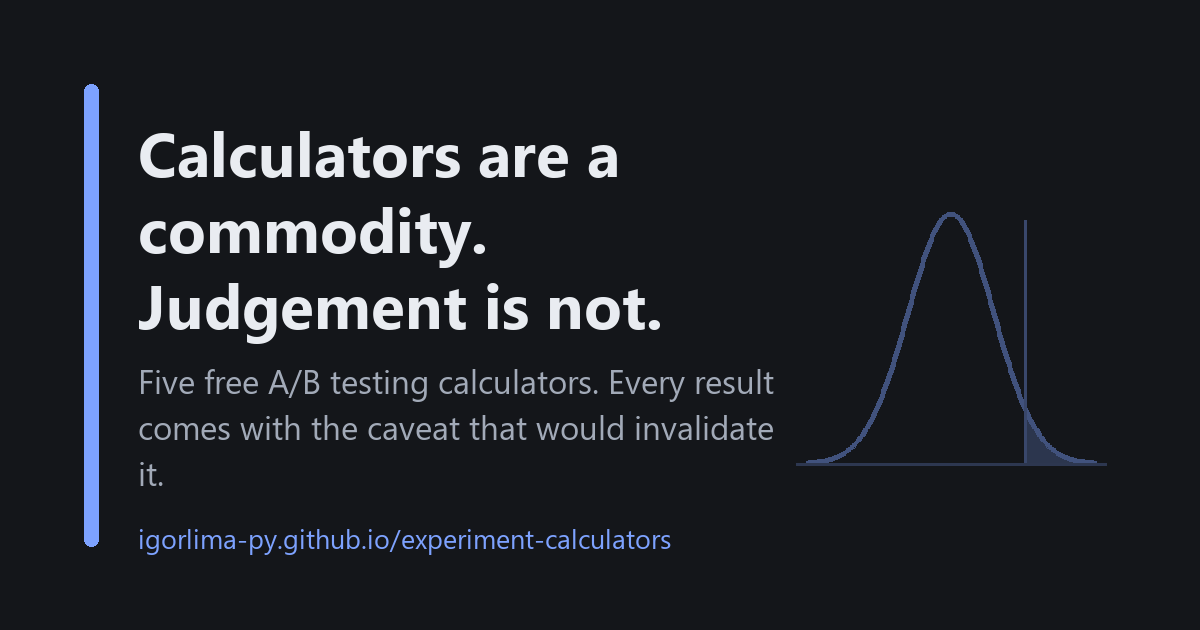
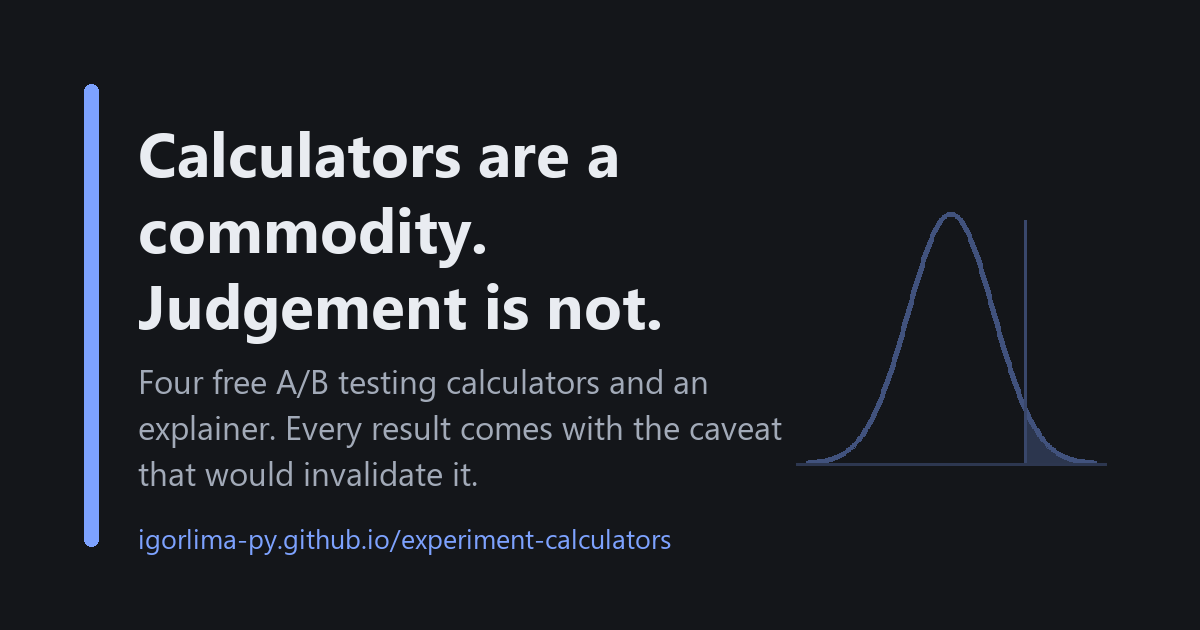
copy: four calculators and an explainer; only a few tools warn you, not none
The home page, README, 404 and home link-preview image said five
calculators, but the CUPED page is an explainer. The home page said none of
the free calculators tell you what would make the number a lie; ABTestGuide
flags sample ratio mismatch, so that was false. validation/README.md
described the planning-session seed scripts; it now documents the
reference/check pairs and the two new checks.

Changed region(s): [[0.1233, 0.6635, 0.6475, 0.7841], [0.1233, 0.573, 0.6475, 0.6333]]

diff --git a/index.html b/index.html
@@ -4,19 +4,19 @@
 <meta charset="utf-8">
 <meta name="viewport" content="width=device-width, initial-scale=1">
 <title>Experimentation calculators</title>
-<meta name="description" content="Five free calculators for people who run A/B tests, each result paired with the caveat that would invalidate it. Every formula checked against a reference implementation, with the comparison published.">
+<meta name="description" content="Four free calculators and an interactive explainer for people who run A/B tests, each result paired with the caveat that would invalidate it. Every formula checked against a reference implementation, with the comparison published.">
 <link rel="canonical" href="https://igorlima-py.github.io/experiment-calculators/">
 <link rel="icon" href="./assets/favicon.svg" type="image/svg+xml">
 <meta property="og:type" content="website">
 <meta property="og:url" content="https://igorlima-py.github.io/experiment-calculators/">
 <meta property="og:title" content="Experimentation calculators">
-<meta property="og:description" content="Five free calculators for people who run A/B tests, each result paired with the caveat that would invalidate it. Every formula checked against a reference implementation, with the comparison published.">
+<meta property="og:description" content="Four free calculators and an interactive explainer for people who run A/B tests, each result paired with the caveat that would invalidate it. Every formula checked against a reference implementation, with the comparison published.">
 <meta property="og:image" content="https://igorlima-py.github.io/experiment-calculators/assets/og/home.png">
 <meta property="og:image:width" content="1200">
 <meta property="og:image:height" content="630">
 <meta name="twitter:card" content="summary_large_image">
 <meta name="twitter:title" content="Experimentation calculators">
-<meta name="twitter:description" content="Five free calculators for people who run A/B tests, each result paired with the caveat that would invalidate it. Every formula checked against a reference implementation, with the comparison published.">
+<meta name="twitter:description" content="Four free calculators and an interactive explainer for people who run A/B tests, each result paired with the caveat that would invalidate it. Every formula checked against a reference implementation, with the comparison published.">
 <meta name="twitter:image" content="https://igorlima-py.github.io/experiment-calculators/assets/og/home.png">
 <link rel="stylesheet" href="assets/style.css">
 </head>
@@ -31,8 +31,10 @@
   <h1>Calculators are a commodity. Judgement is not.</h1>
 
   <p class="tool-sub">There are fifty free A/B test calculators. Almost none of
-  them tell you what the number means, and none of them tell you what would make
-  it a lie. These do both.</p>
+  them tell you what the number means, and only a few warn you when it might be
+  a lie: <a href="https://abtestguide.com/calc/">ABTestGuide</a>, for one, flags
+  a traffic split that did not come out as planned. These do both, for every
+  result.</p>
 
   <p>Every result on this site comes with one plain sentence on what it means
   and, more importantly, what would invalidate it. The

diff --git a/404.html b/404.html
@@ -4,7 +4,7 @@
 <meta charset="utf-8">
 <meta name="viewport" content="width=device-width, initial-scale=1">
 <title>Page not found</title>
-<meta name="description" content="That page does not exist. The five calculators are listed here.">
+<meta name="description" content="That page does not exist. Every page on the site is listed here.">
 <meta name="robots" content="noindex">
 <link rel="icon" href="/experiment-calculators/assets/favicon.svg" type="image/svg+xml">
 <link rel="stylesheet" href="/experiment-calculators/assets/style.css">

diff --git a/assets/build_og.py b/assets/build_og.py
@@ -69,8 +69,8 @@ FOOTER = "igorlima-py.github.io/experiment-calculators"
 
 PAGES = [
     ("home", "Calculators are a commodity. Judgement is not.",
-     "Five free A/B testing calculators. Every result comes with the caveat "
-     "that would invalidate it."),
+     "Four free A/B testing calculators and an explainer. Every result comes "
+     "with the caveat that would invalidate it."),
     ("sample-size", "A/B test sample size & duration",
      "How many users a test needs, how long that takes at your traffic, and "
      "what peeking early would cost you."),

diff --git a/validation/README.md b/validation/README.md
@@ -1,35 +1,68 @@
 # Validation
 
-Reference-implementation cross-checks for every calculator in this suite.
-**No calculator ships without its comparison table published here.**
+Every formula on the site is cross-checked here against a reference
+implementation, and no calculator ships without its comparison published in
+[RESULTS.md](RESULTS.md), which the site also serves as
+[a page](index.html).
 
-These scripts were seeded during the planning session (2026-08-26) and already
-reproduce the canonical numbers; they will grow into one script per tool with
-committed markdown output during implementation.
+## How the checks work
 
-## Scripts
+Most of them come in pairs. A Python script computes reference values with
+scipy, statsmodels or numpy and writes them to a JSON file. A Node script then
+loads the site's own JavaScript from `assets/`, runs it on the same inputs,
+and exits with an error if any result falls outside its stated tolerance.
 
-- `verify_tool1.py`: A/B sample size, exact port of Evan Miller's
-  `sample-size-fixed.js` formula vs. statsmodels
-  (`samplesize_proportions_2indep_onetail`, Cohen's h route), the classic
-  pooled-p̄ formula, and Fleiss with continuity correction. Documents *why*
-  the implementations disagree (null-variance convention), not just that they do.
-- `verify_tool3_mvn.py`: Peeking, overall type-I error under k interim looks
-  via the exact multivariate-normal representation (scipy Genz MVN),
-  plus Pocock constants and O'Brien-Fleming bounds by root-finding.
-- `verify_tool3_recursion.py`: Peeking, independent second route,
-  Armitage–McPherson recursion (numerical integration of the sub-density),
-  plus a Monte Carlo check. Agreement of both routes with the published
-  Armitage/Pocock/OBF tables is the acceptance criterion for the JS port.
-
-## Environment
-
-Verified with Python 3.14.3 on Windows:
-
-```
-numpy
-scipy==1.17.1
-statsmodels==0.14.6
+```bash
+python reference_tool1.py && node check_tool1.js
 ```
 
-Run any script directly, e.g. `python verify_tool3_recursion.py`.
+The JSON files are committed, so the Node half runs without the Python stack
+installed. CI regenerates every one of them on each push.
+
+| Pair | What it checks | Against |
+|---|---|---|
+| `reference_core.py` / `check_core.js` | The distribution functions in `stats.js` | scipy |
+| `reference_tool1.py` / `check_tool1.js` | Sample size | statsmodels, and a port of Evan Miller's formula |
+| `reference_tool2.py` / `check_tool2.js` | Minimum detectable effect | statsmodels' sample-size function, inverted numerically, and Cohen's h |
+| `reference_tool3.py` / `check_tool3.js` | The cost of peeking, and the Pocock and O'Brien-Fleming thresholds | A multivariate-normal integration in scipy, the published tables, and a Monte Carlo run |
+| `reference_tool3_spending.py` / `check_tool3_spending.js` | Alpha spending at unevenly spaced looks | scipy, including how much error each boundary really spends |
+| `reference_tool4.py` / `check_tool4.js` | Geo holdout power and detectable lift | statsmodels' `TTestIndPower` and scipy's noncentral t |
+| `reference_tool5.py` / `check_tool5.js` | CUPED and the delta method | numpy on identical datasets, and large Monte Carlo runs |
+
+`reference_tool3.py` takes about seven minutes. The rest finish in seconds.
+
+Two checks have no Python half. `check_judgement.js` runs the sentence under
+each result (`assets/judgement.js`) against a table of cases: the exact text
+each tool shows at its defaults, one case per branch, and the peeking figure
+on the sample size page against the one the peeking checker shows.
+`check_site.js` fails if a tool is missing from any page's nav, the home page,
+the 404, the sitemap, the README or the link-preview generator, if a page
+references a file that does not exist or loads anything from another domain,
+or if a check here is left out of CI.
+
+## Running all of it
+
+```bash
+python -m pip install -r ../requirements-dev.txt
+python reference_core.py  && node check_core.js
+python reference_tool1.py && node check_tool1.js
+python reference_tool2.py && node check_tool2.js
+python reference_tool3.py && node check_tool3.js
+python reference_tool3_spending.py && node check_tool3_spending.js
+python reference_tool4.py && node check_tool4.js
+python reference_tool5.py && node check_tool5.js
+node check_judgement.js
+node check_site.js
+```
+
+The reference stack is pinned in `requirements-dev.txt`: Python 3.14.3,
+`scipy==1.17.1`, `statsmodels==0.14.6`. Node 24 runs the checks, and nothing
+that ships uses it.
+
+## The seed scripts
+
+`verify_tool1.py`, `verify_tool3_mvn.py` and `verify_tool3_recursion.py` are
+the first cross-checks, written during the planning session on 2026-08-26.
+They already reproduced the canonical numbers then, and grew into the
+`reference_*.py` scripts above. They are kept for the record and are not part
+of the suite.

diff --git a/README.md b/README.md
@@ -2,11 +2,12 @@
 
 [![validation](https://github.com/IgorLima-py/experiment-calculators/actions/workflows/validation.yml/badge.svg)](https://github.com/IgorLima-py/experiment-calculators/actions/workflows/validation.yml)
 
-Five free calculators for people who run A/B tests and marketing experiments.
-Every result comes with one plain sentence explaining what it means and what
-would invalidate it, and every formula is cross-checked against a reference
-implementation with [the comparison published](validation/RESULTS.md), also
-rendered as [a page on the site](validation/index.html).
+Four free calculators and an interactive explainer for people who run A/B tests
+and marketing experiments. Every result comes with one plain sentence
+explaining what it means and what would invalidate it, and every formula is
+cross-checked against a reference implementation with
+[the comparison published](validation/RESULTS.md), also rendered as
+[a page on the site](validation/index.html).
 
 [How this was built](docs/HOW-THIS-WAS-BUILT.md) covers the method, the
 decisions that were not obvious, and what the validation caught.
